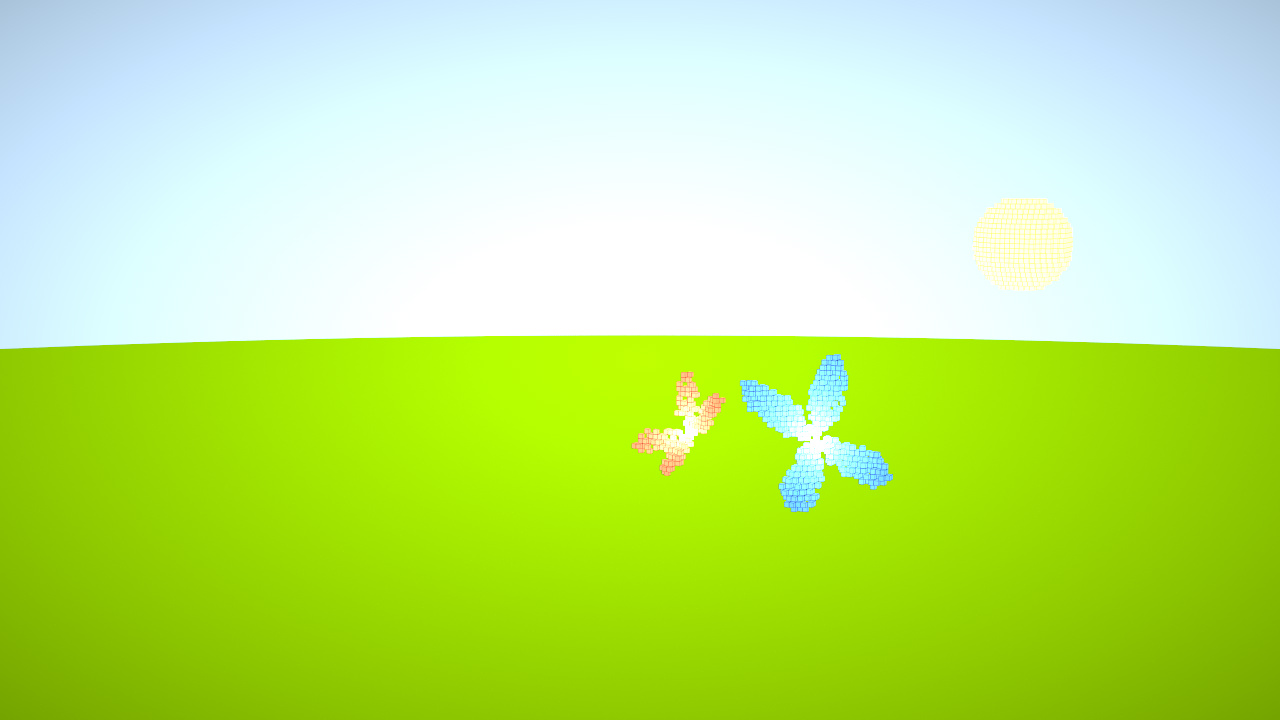
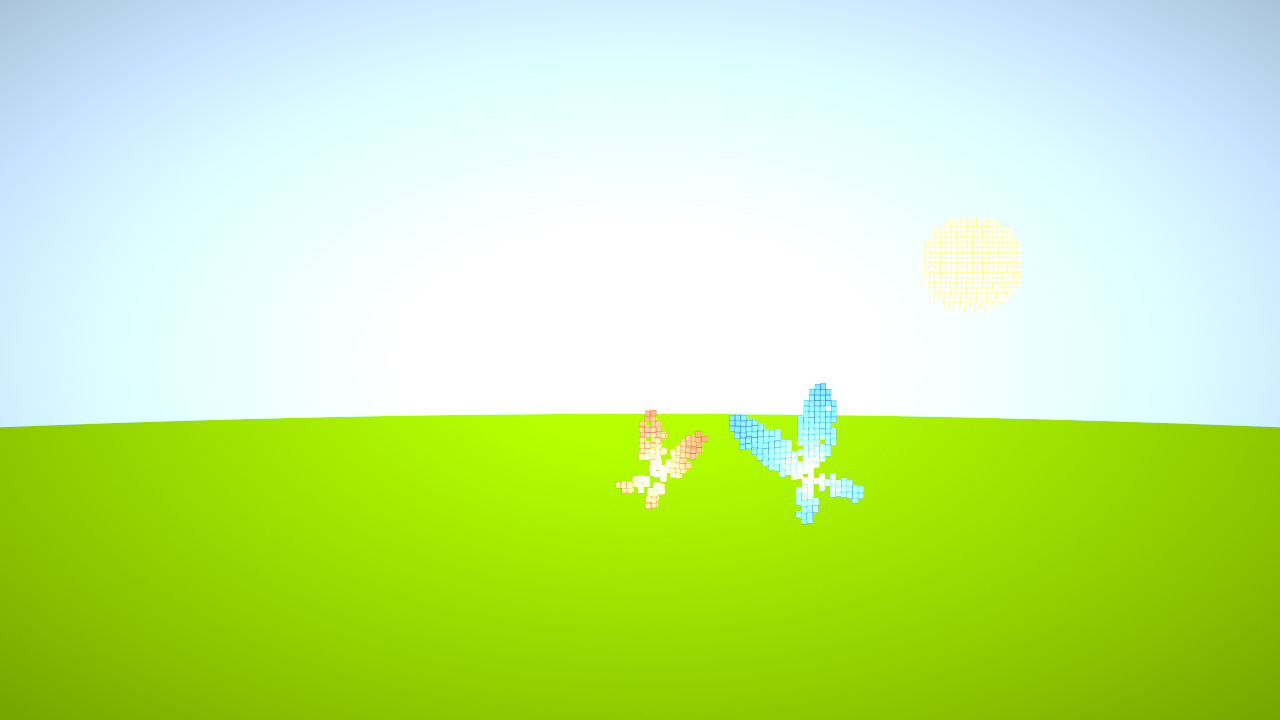
fix bug in calculation of pol_theta

Changed region(s): [[0.0, 0.4583, 1.0, 0.7333], [0.7188, 0.275, 0.8438, 0.4278]]

diff --git a/main.py b/main.py
@@ -25,7 +25,7 @@ def create_butterfly(pos, sz, axis, angle, color):
         tmp[0] = tmp[0] / sz * xscale
         tmp[1] = tmp[1] / sz * yscale -0.5
         pol_r = tmp.norm()
-        pol_theta = ti.acos(tmp[0]/pol_r) + 4*ti.math.pi
+        pol_theta = ti.asin(tmp[1] / pol_r) + 4*ti.math.pi
         sdf = pol_r - ( ti.exp(ti.sin(pol_theta))-2*ti.cos(4*pol_theta)+ti.pow(ti.sin(2*pol_theta-ti.math.pi)/24,5) )
         if sdf < 0:
             scene.set_voxel(pos + ti.math.rotate3d(vec3(I, pol_r),axis,angle), 2, color/pol_r)
